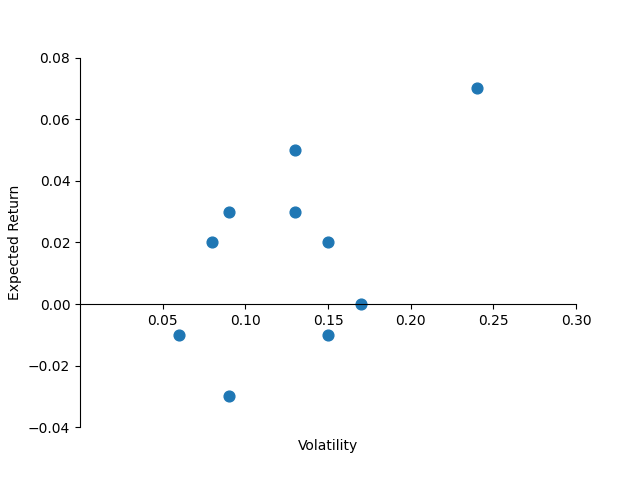
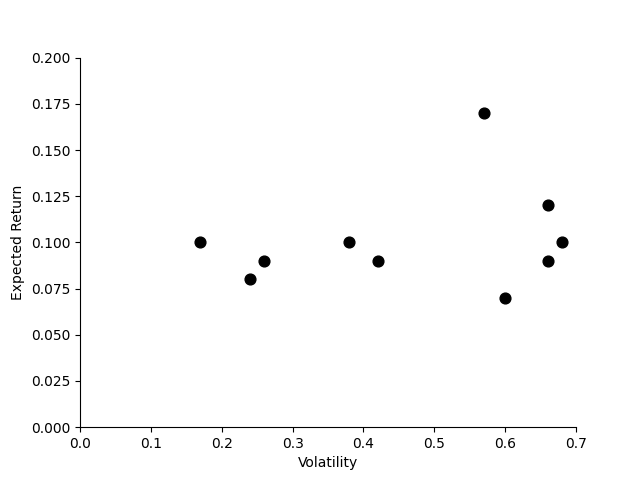
Updates

diff --git a/CH8_8.2.4-7_efficient_frontier.py b/CH8_8.2.4-7_efficient_frontier.py
@@ -6,18 +6,18 @@ from scipy.optimize import minimize
 
 # -------------------------------------------------- Inputs --------------------------------------------------
 # Tickers
-tickers = ["IBM", "COG", "AAPL"]
+tickers = ["DRLL", "BYTE", "SNAX"]
 
 # Covariance matrix
 covariance_matrix = np.array(
-    [[0.0016, -0.0003, 0.0019], [-0.0003, 0.0100, -0.0026], [0.0019, -0.0026, 0.0071]]
+    [[0.0400, -0.0200, 0.0250], [-0.0200, 0.0900, 0.0400], [0.0250, 0.0400, 0.2500]]
 )
 
 # Expected returns
-expected_returns = np.array([0.0056, 0.0279, 0.0272])
+expected_returns = np.array([0.12, 0.06, 0.08])
 
 # Risk free rate
-rf = 0.0015
+rf = 0.05
 
 
 # -------------------------------------------------- Functions --------------------------------------------------
@@ -30,22 +30,15 @@ def portfolio_volatility(weights: np.array, covariance_matrix: np.array):
 
 
 def portfolio_sharpe(
-    weights: np.array,
-    expected_returns: np.array,
-    covariance_matrix: np.array,
-    rf: float,
+    weights: np.array, expected_returns: np.array, covariance_matrix: np.array, rf: float
 ):
     port_ret = portfolio_return(weights, expected_returns)
     port_vol = portfolio_volatility(weights, covariance_matrix)
-
     return (port_ret - rf) / port_vol
 
 
 def negative_portfolio_sharpe(
-    weights: np.array,
-    expected_returns: np.array,
-    covariance_matrix: np.array,
-    rf: float,
+    weights: np.array, expected_returns: np.array, covariance_matrix: np.array, rf: float
 ):
     return -portfolio_sharpe(weights, expected_returns, covariance_matrix, rf)
 
@@ -72,10 +65,9 @@ def mve_portfolio(target_return, expected_returns, covariance_matrix):
 
 
 # Target returns
-n_points = 10
-target_returns = np.linspace(
-    -0.03, -0.03 + (10 - 1) * 0.015, n_points
-)  # start at -.03 and increment by .015 n_points times
+start = 0.5 * min(expected_returns)
+end = 2 * max(expected_returns)
+target_returns = np.linspace(start, end, num=100)
 
 # Generate MVE portfolios
 mve_portfolios = [
@@ -89,7 +81,7 @@ sharpes = [portfolio_sharpe(w, expected_returns, covariance_matrix, rf) for w in
 
 # Portfolios dataframe
 portfolios = pd.DataFrame()
-portfolios["Name"] = [f"Portfolio {x+1}" for x in range(len(mve_portfolios))]
+portfolios["Name"] = [f"Portfolio {x + 1}" for x in range(len(mve_portfolios))]
 
 # Weight columns
 for index in range(len(tickers)):
@@ -104,16 +96,21 @@ portfolios["sharpe_ratio"] = sharpes
 print("-" * 50 + " MVE Portfolios " + "-" * 50)
 print(portfolios)
 
+Er1 = np.array([0.10, 0.08, 0.09, 0.10, 0.10, 0.12, 0.09, 0.17, 0.07, 0.09])
+vol1 = np.array([0.17, 0.24, 0.66, 0.38, 0.68, 0.66, 0.42, 0.57, 0.60, 0.26])
+
 # Chart
-plt.plot(volatilities, returns, label="Efficient Frontier", marker="o", zorder=1)
+plt.plot(volatilities, returns, label="EFRS", linewidth=2, color="k", zorder=1)
+plt.scatter(vol1, Er1, s=30, color="black", zorder=2)
 plt.xlim(0)
-plt.axhline(y=0, color="k")
+# plt.axhline(y=0, color="k")
 plt.xlabel("Volatility")
 plt.ylabel("Expected Return")
-plt.title("Efficient Frontier")
+# plt.title("Efficient Frontier")
 plt.legend()
 plt.savefig("plots/CH8_8.2.4_efficient_frontier.png", dpi=300)
-
+plt.show()
+quit()
 # -------------------------------------------------- Optimal Portfoio --------------------------------------------------
 # Constraints
 constraints = {"type": "eq", "fun": lambda x: np.sum(x) - 1}  # weights sum to 1
@@ -139,6 +136,7 @@ print("-" * 50 + " Optimal Portfolio " + "-" * 50)
 print(", ".join([f"{ticker}: {weight:.4f}" for ticker, weight in zip(tickers, optimal_weights)]))
 print(f"Sharpe: {optimal_sharpe:.4f}")
 
+
 # -------------------------------------------------- Capital Allocation Line --------------------------------------------------
 
 
@@ -146,41 +144,44 @@ def cal(x: float, sharpe: float, rf: float) -> float:
     return x * sharpe + rf
 
 
-x = 0, max(portfolios["volatility"])
+x = 0, max(portfolios["volatility"]) * 2 / 3
 y = [cal(x_, optimal_sharpe, rf) for x_ in x]
 
-plt.plot(x, y, label="Capital Allocation Line", zorder=2)
+plt.plot(x, y, label="Efficient Frontier", linewidth=2, zorder=3)
 plt.scatter(
     optimal_volatility,
     optimal_return,
     color="r",
     marker="*",
     s=200,
-    label="Optimal Portfolio",
+    label="Tangent Portfolio",
     zorder=3,
 )
-plt.legend()
+plt.legend(loc="upper left")
 plt.savefig("plots/CH8_8.2.5_efficient_frontier.png", dpi=300)
+# plt.show()
 
 # -------------------------------------------------- Client Portfolio --------------------------------------------------
-client_target_return = 0.03
-scale = (client_target_return - rf) / (optimal_return - rf)
-client_weights = optimal_weights * scale
-rf_weight = 1 - sum(client_weights)
-client_return = portfolio_return(client_weights, expected_returns) + rf * rf_weight
-client_volatility = portfolio_volatility(client_weights, covariance_matrix)
+client_target_return = 0.15
+client_weight_tangent = (client_target_return - rf) / (optimal_return - rf)
+client_volatility = client_weight_tangent * optimal_volatility
+
 
 plt.scatter(
     client_volatility,
     client_target_return,
     label="Client Portfolio",
     color="green",
-    s=100,
+    marker="*",
+    s=200,
     zorder=3,
 )
 plt.legend()
 plt.savefig("plots/CH8_8.2.6_efficient_frontier.png", dpi=300)
-
+plt.show()
+print(client_volatility)
+print(client_weight_tangent)
+quit()
 # -------------------------------------------------- Hedge Fund Portfolio --------------------------------------------------
 z = stats.norm.ppf(0.95)
 fund_var = -0.10

diff --git a/CH8_8.2.1.py b/CH8_8.2.1.py
@@ -1,26 +1,22 @@
 from matplotlib import pyplot as plt
 
-x=[0.09,0.06,0.13,0.24,0.15,0.17,0.08,0.15,0.09,0.13]
-y=[-0.03,-0.01,0.03,0.07,0.02,0.00,0.02,-0.01,0.03,0.05]
+y = [0.10, 0.08, 0.09, 0.10, 0.10, 0.12, 0.09, 0.17, 0.07, 0.09]
+x = [0.17, 0.24, 0.66, 0.38, 0.68, 0.66, 0.42, 0.57, 0.60, 0.26]
 
-plt.scatter(x,y,s=60)
-axes=plt.gca()
-axes.spines['bottom'].set_position('zero')
-
-
-axes.spines['right'].set_visible(False)
-axes.spines['top'].set_visible(False)
-
-plt.ylim(-0.04,0.08)
-plt.xlim(0,0.3)
-plt.xticks([0.05,0.1,0.15,0.2,0.25,0.3])
-axes.set_xlabel('Volatility',labelpad=80)
-plt.ylabel('Expected Return')
+plt.scatter(x, y, s=60, color="k")
+axes = plt.gca()
+axes.spines["bottom"].set_position("zero")
 
 
+axes.spines["right"].set_visible(False)
+axes.spines["top"].set_visible(False)
+
+plt.ylim(0, 0.2)
+plt.xlim(0, 0.7)
+# plt.xticks([0.05,0.1,0.15,0.2,0.25,0.3])
+axes.set_xlabel("Volatility", labelpad=4)
+plt.ylabel("Expected Return")
 
 
-
-
-plt.savefig('plots/CH8_8.2.1.png')
+plt.savefig("plots/CH8_8.2.1.png")
 plt.show()
